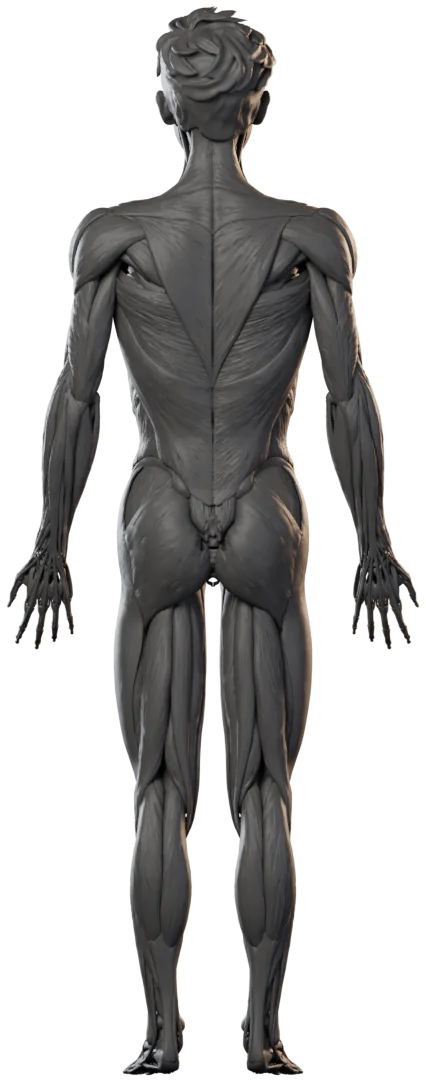
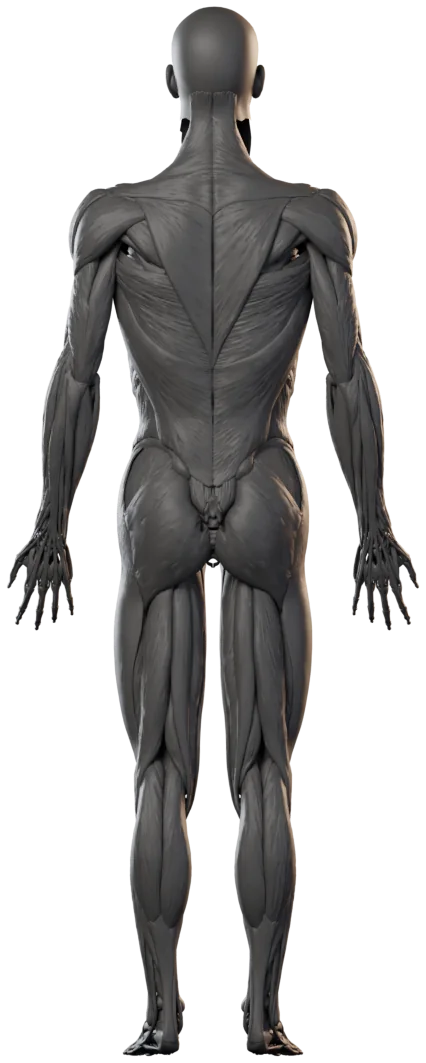
Realistic male head on the anatomy figure
Replaces the atlas head with the Lee Perry-Smith head scan (Infinite Realities,
CC BY 3.0), trimmed to a neck column that meets the trapezius; ungrouped deep
neck muscles hidden. Re-rendered beauty and ID maps; credit added in Settings.

Claude-Session: https://claude.ai/code/session_018p5ShPLkAdsKbAirBRCepd

diff --git a/styles.css b/styles.css
@@ -382,7 +382,7 @@ select.txt { background-image: linear-gradient(45deg, transparent 50%, var(--mu)
 .body-map { display: grid; grid-template-columns: 1fr 1fr; gap: 8px; }
 .body-map figure { margin: 0; display: flex; flex-direction: column; align-items: center; }
 .body-map figcaption { font-size: 11px; font-weight: 700; letter-spacing: .08em; text-transform: uppercase; color: var(--mu2); margin-top: 4px; }
-.body-cv { width: 100%; max-width: 190px; aspect-ratio: 426 / 1082; height: auto; display: block; cursor: pointer; }
+.body-cv { width: 100%; max-width: 190px; aspect-ratio: 426 / 1063; height: auto; display: block; cursor: pointer; }
 .body-map { background: radial-gradient(60% 45% at 50% 40%, rgba(255, 138, 61, .06), transparent 70%); border-radius: 14px; padding-top: 6px; }
 .body-legend { display: flex; align-items: center; gap: 8px; margin: 12px 4px 0; font-size: 11.5px; color: var(--mu); font-weight: 600; }
 .body-legend i { flex: 1; height: 6px; border-radius: 6px; background: linear-gradient(90deg, #3a3633, #a8471c, var(--accent2)); }

diff --git a/app.js b/app.js
@@ -1098,7 +1098,7 @@ function viewSettings() {
     <button class="btn block ghost danger" data-a="reset">Erase everything</button>
   </section>
   <p class="fine center">Kiln v1 · Back up monthly. iOS can clear web app data if storage gets tight.</p>
-  <p class="fine center">Anatomy model: <a href="https://www.z-anatomy.com" target="_blank" rel="noopener">Z-Anatomy</a>, CC BY-SA 4.0</p>
+  <p class="fine center">Anatomy model: <a href="https://www.z-anatomy.com" target="_blank" rel="noopener">Z-Anatomy</a>, CC BY-SA 4.0 · Head scan: Lee Perry-Smith by <a href="https://ir-ltd.net" target="_blank" rel="noopener">Infinite Realities</a>, CC BY 3.0</p>
   <input type="file" id="file-in" accept=".csv,.json,text/csv,application/json" hidden>
   `;
 }

diff --git a/sw.js b/sw.js
@@ -1,5 +1,5 @@
 // Stale-while-revalidate app shell: opens instantly offline, picks up new versions on next launch.
-const CACHE = 'kiln-v9';
+const CACHE = 'kiln-v10';
 const ASSETS = ['./', 'index.html', 'styles.css', 'exercises.js', 'body.js', 'app.js', 'manifest.webmanifest',
   'img/body-front.webp', 'img/body-back.webp', 'img/body-front-id.png', 'img/body-back-id.png',
   'icons/icon-192.png', 'icons/icon-512.png', 'icons/apple-touch-icon.png'];

diff --git a/tools/blender/render.py b/tools/blender/render.py
@@ -1,4 +1,6 @@
 import bpy, sys, math, mathutils, json, os
+def smoothstep_(x, a, b):
+    t = max(0.0, min(1.0, (x - a) / (b - a))); return t * t * (3 - 2 * t)
 sys.path.insert(0, os.path.dirname(__file__))
 from groups import group_of, GROUPS
 args = json.loads(sys.argv[-1])
@@ -41,11 +43,12 @@ if HEAD_Z:
     core.location = (0, c.y + args.get('core_dy', 0.0), c.z + 0.02)
     core.scale = ((hi.x - lo.x) / 2 * args.get("core_s", 0.86), (hi.y - lo.y) / 2 * args.get("core_sy", 0.8), (hi.z - lo.z) / 2 * args.get("core_s", 0.86))
     keep.append(core)
+    HAIR = []; SKIN_HEAD = []
     # sculpted head: skin regions of the face and skull from the body-surface model
     before = set(bpy.context.scene.objects)
     bpy.ops.import_scene.fbx(filepath=args['skin'])
     NO = ['carotid', 'muscular triangle', 'supraclavicular', 'eyelash', 'cilia', 'cross section', 'eyebrow hair', 'hairs of eyebrow', 'pubic', 'axilla']
-    if not args.get('hair'): NO.append('hair')
+    if not (args.get('hair') or args.get('buzz')): NO.append('hair')
     if not args.get('neck'): NO += ['neck', 'sternocleidomastoid']
     zmin_keep = args.get('skin_zmin', 1.475)
     for o in [o for o in bpy.context.scene.objects if o not in before]:
@@ -55,11 +58,13 @@ if HEAD_Z:
         if n.endswith('.j') or n.endswith('.i') or any(x in n for x in NO) or (min(w.z for w in ws) < zmin_keep and not is_neck):
             o.hide_render = True; continue
         keep.append(o)
+        SKIN_HEAD.append(o)
+        if n.startswith('hairs of head'): HAIR.append(o)
         if n.startswith('orbital region'):
             # sculpted eyeball behind each eye opening
             cx = sum(w.x for w in ws) / 8; fy = min(w.y for w in ws); r = 0.0125
             bpy.ops.mesh.primitive_uv_sphere_add(segments=48, ring_count=32, radius=r, location=(cx * 0.93, fy + r * args.get('eye_back', 2.2), args.get('eye_z', 1.5915)))
-            bpy.ops.object.shade_smooth(); keep.append(bpy.context.active_object)
+            bpy.ops.object.shade_smooth(); keep.append(bpy.context.active_object); SKIN_HEAD.append(bpy.context.active_object)
 print('KEEP', len(keep), 'of', len(meshes))
 # clay material
 mat = bpy.data.materials.new('clay'); mat.use_nodes = True
@@ -67,12 +72,198 @@ b = mat.node_tree.nodes['Principled BSDF']
 b.inputs['Base Color'].default_value = tuple(args.get('clay', [0.11, 0.105, 0.10])) + (1,)
 b.inputs['Roughness'].default_value = 0.55
 if 'Specular IOR Level' in b.inputs: b.inputs['Specular IOR Level'].default_value = 0.35
+if args.get('scanhead') and args.get('head_z'):
+    # realistic male head scan (Lee Perry-Smith, Infinite Realities, CC BY 3.0) replaces the atlas head
+    import bmesh
+    before = set(sc.objects)
+    bpy.ops.import_scene.gltf(filepath=args['scanhead'])
+    scan = [o for o in sc.objects if o not in before and o.type == 'MESH'][0]
+    for o in [o for o in sc.objects if o not in before and o is not scan]: o.hide_render = True
+    bm = bmesh.new(); bm.from_mesh(scan.data); bmesh.ops.transform(bm, matrix=scan.matrix_world, verts=bm.verts)
+    top = max(v.co.z for v in bm.verts)
+    chin = min(v.co.z for v in bm.verts if abs(v.co.x) < 0.4 and v.co.y < -1.0)
+    nose_y = min(v.co.y for v in bm.verts)
+    H = args.get('scan_top', 1.712) - args.get('scan_chin', 1.488)
+    k = H / (top - chin)
+    for v in bm.verts:
+        c = v.co
+        v.co = mathutils.Vector((c.x * k, args.get('scan_nose_y', -0.118) + (c.y - nose_y) * k, args.get('scan_top', 1.712) - (top - c.z) * k))
+    band = [v.co for v in bm.verts if 1.49 < v.co.z < 1.51]
+    ncy = sum(c.y for c in band) / max(1, len(band))
+    rx, ry = args.get('neck_rx', 0.062), args.get('neck_ry', 0.07)
+    def outside_neck(c):
+        if c.z >= 1.535: return False
+        if c.y > ncy + args.get('neck_back_dy', 0.012) and c.z < args.get('neck_back_z', 1.525): return True   # let the traps show at the back
+        if c.z > args.get('jaw_keep_z', 1.478) and abs(c.x) < rx * 1.25: return False   # keep the jaw and under-chin
+        return ((c.x / rx) ** 2 + ((c.y - ncy) / ry) ** 2) > 1
+    bmesh.ops.delete(bm, geom=[v for v in bm.verts if v.co.z < args.get('scan_cut', 1.40) or outside_neck(v.co)], context='VERTS')
+    for f in bm.faces: f.smooth = True
+    head = bpy.data.objects.new('scan_head', bpy.data.meshes.new('scan_head')); sc.collection.objects.link(head)
+    bm.to_mesh(head.data); bm.free()
+    scan.hide_render = True
+    for o in SKIN_HEAD: o.hide_render = True
+    core.hide_render = True
+    keep = [o for o in keep if o not in SKIN_HEAD and o is not core]
+    # atlas pieces that sit up inside/behind the scanned head would poke through it
+    hz = args.get('scan_hide_z', 1.50)
+    for o in list(keep):
+        ws = [o.matrix_world @ mathutils.Vector(c) for c in o.bound_box]
+        cz = sum(w.z for w in ws) / 8; cx = sum(w.x for w in ws) / 8
+        ungrouped_neck = o.name in MUSCLE_NAMES and group_of(o.name) is None and cz > 1.40 and abs(cx) < 0.09
+        if cz > hz or ungrouped_neck: o.hide_render = True; keep.remove(o)
+    keep.append(head)
+    print('SCANHEAD scale', round(k, 4), 'chin', round(chin, 3), 'top', round(top, 3))
+if args.get('mannequin') and args.get('head_z'):
+    # blank mannequin head: smooth shell shrink-wrapped to the skull/jaw, features smoothed away
+    import bmesh
+    EAR = ['auric', 'helix', 'lobule', 'tragus', 'concha', 'scapha', 'fossa', 'incisure', 'eminentia', 'crus', 'hair', 'eyebrow']
+    src = [o for o in SKIN_HEAD if o.type == 'MESH' and not any(k in o.name.lower() for k in EAR) and not o.name.lower().startswith('sphere')]
+    bm = bmesh.new()
+    for o in src:
+        t = bmesh.new(); t.from_mesh(o.data); bmesh.ops.transform(t, matrix=o.matrix_world, verts=t.verts)
+        tmp = bpy.data.meshes.new('tmp'); t.to_mesh(tmp); t.free(); bm.from_mesh(tmp); bpy.data.meshes.remove(tmp)
+    tgt = bpy.data.objects.new('head_target', bpy.data.meshes.new('head_target')); sc.collection.objects.link(tgt)
+    bm.to_mesh(tgt.data); bm.free(); tgt.hide_render = True
+    ws = [v.co for v in tgt.data.vertices]
+    hlo = mathutils.Vector((min(w.x for w in ws), min(w.y for w in ws), min(w.z for w in ws)))
+    hhi = mathutils.Vector((max(w.x for w in ws), max(w.y for w in ws), max(w.z for w in ws)))
+    hc = (hlo + hhi) / 2
+    from mathutils.bvhtree import BVHTree
+    tree = BVHTree.FromObject(tgt, bpy.context.evaluated_depsgraph_get())
+    # radial projection of a dense sphere onto the outermost skin; rays that slip through eye
+    # openings are filled from their neighbours, then the face is smoothed blank
+    rings, segs = args.get('mq_rings', 140), args.get('mq_segs', 180)
+    bm = bmesh.new()
+    bmesh.ops.create_uvsphere(bm, u_segments=segs, v_segments=rings, radius=1.0)
+    hc2 = mathutils.Vector((0, hc.y + 0.008, hc.z + 0.01))
+    miss = set(); radii = []
+    for v in bm.verts:
+        d = v.co.normalized()
+        hit = tree.ray_cast(hc2 + d * 0.4, -d, 0.4)[0]
+        if hit is None or (hit - hc2).length < 0.05: miss.add(v); v.co = hc2 + d * 0.09
+        else: v.co = hit; radii.append((hit - hc2).length)
+    bmesh.ops.delete(bm, geom=[v for v in bm.verts if v.co.z < args.get('mq_cut', 1.49)], context='VERTS')
+    miss = {v for v in miss if v.is_valid}
+    cy0 = hc.y
+    def wface(co):
+        f = smoothstep_(co.y, cy0 - 0.03, cy0 - 0.08) * (1 - smoothstep_(co.z, 1.645, 1.675)) * smoothstep_(co.z, 1.485, 1.505)
+        return 0.05 + 0.8 * f
+    nbr = {v: [e.other_vert(v) for e in v.link_edges] for v in bm.verts}
+    wts = {v: (1.0 if v in miss else wface(v.co)) for v in bm.verts}
+    for it in range(args.get('mq_iter', 120)):
+        new = {}
+        for v, ns in nbr.items():
+            if not ns or v.is_boundary: continue
+            avg = sum((n.co for n in ns), mathutils.Vector()) / len(ns)
+            new[v] = v.co.lerp(avg, wts[v])
+        for v, c in new.items(): v.co = c
+    head = bpy.data.objects.new('mannequin_head', bpy.data.meshes.new('mannequin_head')); sc.collection.objects.link(head)
+    bm.to_mesh(head.data); bm.free()
+    for p in head.data.polygons: p.use_smooth = True
+    bpy.context.view_layer.objects.active = head; head.select_set(True)
+    for o in SKIN_HEAD: o.hide_render = True
+    core.hide_render = True
+    keep = [o for o in keep if o not in SKIN_HEAD and o is not core]
+    keep.append(head)
+    print('MANNEQUIN from', len(src), 'pieces')
+BUZZ = []
+if args.get('buzz') and args.get('head_z'):
+    scalp_keys = ['frontal region', 'parietal region', 'occipital region', 'temporal region', 'mastoid region', 'auricular region']
+    parts = [o for o in keep if any(o.name.lower().startswith(k) for k in scalp_keys)]
+    import bmesh
+    bm = bmesh.new()
+    for o in parts:   # merge scalp pieces in world space (FBX pieces are positioned via parents)
+        t = bmesh.new(); t.from_mesh(o.data); bmesh.ops.transform(t, matrix=o.matrix_world, verts=t.verts)
+        tmp = bpy.data.meshes.new('tmp'); t.to_mesh(tmp); t.free(); bm.from_mesh(tmp); bpy.data.meshes.remove(tmp)
+    cap = bpy.data.objects.new('buzz_cap', bpy.data.meshes.new('buzz_cap')); sc.collection.objects.link(cap)
+    bm.to_mesh(cap.data); bm.free()
+    # footprint of the original hair, so the buzz cut keeps a natural hairline
+    from mathutils.bvhtree import BVHTree
+    dg = bpy.context.evaluated_depsgraph_get()
+    verts, polys = [], []
+    for h in HAIR:
+        e = h.evaluated_get(dg); me = e.to_mesh(); off = len(verts)
+        verts += [h.matrix_world @ v.co for v in me.vertices]
+        polys += [[off + i for i in p.vertices] for p in me.polygons]
+        e.to_mesh_clear(); h.hide_render = True
+    tree = BVHTree.FromPolygons(verts, polys)
+    bm = bmesh.new(); bm.from_mesh(cap.data)
+    bmesh.ops.remove_doubles(bm, verts=bm.verts, dist=args.get('buzz_merge', 0.0025))
+    bmesh.ops.subdivide_edges(bm, edges=bm.edges, cuts=args.get('buzz_cuts', 2), use_grid_fill=True, smooth=0.6)
+    bm.normal_update()
+    reach = args.get('buzz_reach', 0.06); front_z = args.get('hairline_z', 1.68)
+    cy = sum(v.co.y for v in bm.verts) / max(1, len(bm.verts))
+    hc = mathutils.Vector((0, cy, (lo.z + hi.z) / 2 + 0.03))   # rough head centre
+    def covered(v):
+        if v.co.y < cy - 0.02 and v.co.z < front_z: return False          # forehead stays clear
+        if abs(v.co.x) < 0.012 and v.co.z > front_z - 0.01: return True    # hair parting gaps on the midline
+        out = (v.co - hc).normalized()
+        hit = tree.ray_cast(v.co + out * 0.0005, out, reach)[0]
+        if hit is None: return False
+        return not (v.co.y < cy - 0.02 and v.co.z < front_z)   # keep the forehead clear
+    gone = [v for v in bm.verts if not covered(v)]
+    print('BUZZ verts', len(bm.verts), 'trimmed', len(gone))
+    bmesh.ops.delete(bm, geom=gone, context='VERTS')
+    bm.normal_update()
+    # soften the hairline: relax boundary vertices a few times
+    for _ in range(args.get('buzz_relax', 6)):
+        edge = [v for v in bm.verts if v.is_boundary]
+        new = {v: sum((e.other_vert(v).co for e in v.link_edges if e.is_boundary), mathutils.Vector()) / max(1, sum(1 for e in v.link_edges if e.is_boundary)) for v in edge}
+        for v, c in new.items(): v.co = v.co.lerp(c, 0.5)
+    lift = args.get('buzz_offset', 0.0025)
+    for v in bm.verts: v.co += (v.co - hc).normalized() * lift
+    bm.to_mesh(cap.data); bm.free()
+    for p in cap.data.polygons: p.use_smooth = True
+    keep = [o for o in keep if o not in HAIR]
+    keep.append(cap); BUZZ.append(cap)
+    # skin fully under the hair takes the stubble colour too, so seams in the cap never show skin
+    BUZZ += [o for o in parts if o.name.lower().startswith(('parietal region', 'occipital region'))]
+# masculine sculpt: thicker neck, wider square jaw, stronger chin and brow, lower dome
+def smooth(z, a, b):   # 0 at a, 1 at b (smoothstep); works for a > b too
+    t = max(0.0, min(1.0, (z - a) / (b - a))); return t * t * (3 - 2 * t)
+def bump(z, lo, peak, hi):
+    return smooth(z, lo, peak) if z <= peak else 1 - smooth(z, peak, hi)
+M = args.get('masc')
+def warp(w):
+    x, y, z = w.x, w.y, w.z
+    if z < 1.38: return w
+    neck = bump(z, 1.40, 1.48, 1.56) * M.get('neck', 0.22)
+    jaw = bump(z, 1.465, M.get('jaw_z', 1.515), 1.59) * M.get('jaw', 0.14)
+    sx = 1 + neck + jaw
+    sy = 1 + neck * 0.8
+    ny = y * sy
+    face = smooth(y, -0.02, -0.07)                      # how far toward the face (front is -y)
+    chin = bump(z, 1.47, 1.50, 1.55) * face * M.get('chin', 0.007)
+    brow = bump(z, 1.605, 1.625, 1.645) * face * M.get('brow', 0.005)
+    nose = bump(z, 1.545, 1.575, 1.61) * smooth(abs(x), 0.022, 0.0) * face * M.get('nose', 0.0)
+    cheek = bump(z, 1.54, 1.575, 1.61) * smooth(abs(x), 0.02, 0.05) * face * M.get('cheekbone', 0.0)
+    ny -= chin + brow + nose + cheek
+    nz = z
+    if z > 1.63: nz = 1.63 + (z - 1.63) * M.get('dome', 0.9)
+    if z > 1.60 and y > 0: ny = y * sy * (1 - smooth(z, 1.60, 1.70) * M.get('back', 0.0))   # less bulge at the back of the skull
+    sx *= 1 + smooth(z, 1.58, 1.66) * M.get('skull_w', 0.04)
+    return mathutils.Vector((x * sx, ny, nz))
+if M:
+    head_objs = [o for o in keep if o.type == 'MESH' and max((o.matrix_world @ mathutils.Vector(c)).z for c in o.bound_box) > 1.38]
+    for o in head_objs:
+        mw = o.matrix_world; inv = mw.inverted()
+        me = o.data
+        if me.users > 1: o.data = me = me.copy()
+        for v in me.vertices: v.co = inv @ warp(mw @ v.co)
+    print('MASC warped', len(head_objs))
 MODE = args.get('mode', 'beauty')
 def flat(name, v):
     m = bpy.data.materials.new(name); m.use_nodes = True; nt = m.node_tree
     for nd in list(nt.nodes): nt.nodes.remove(nd)
     e = nt.nodes.new('ShaderNodeEmission'); e.inputs['Color'].default_value = (v, v, v, 1); e.inputs['Strength'].default_value = 1
     out = nt.nodes.new('ShaderNodeOutputMaterial'); nt.links.new(e.outputs[0], out.inputs[0]); return m
+buzz = bpy.data.materials.new('buzz'); buzz.use_nodes = True
+bn = buzz.node_tree.nodes; bb = bn['Principled BSDF']
+bb.inputs['Base Color'].default_value = tuple(args.get('buzz_color', [0.022, 0.02, 0.019])) + (1,)
+bb.inputs['Roughness'].default_value = 0.92
+noise = bn.new('ShaderNodeTexNoise'); noise.inputs['Scale'].default_value = 900; noise.inputs['Detail'].default_value = 2
+bump = bn.new('ShaderNodeBump'); bump.inputs['Strength'].default_value = 0.35
+buzz.node_tree.links.new(noise.outputs['Fac'], bump.inputs['Height']); buzz.node_tree.links.new(bump.outputs['Normal'], bb.inputs['Normal'])
 idmats = {g: flat('id_' + g, (i + 1) * 16 / 255) for i, g in enumerate(GROUPS)}
 idnone = flat('id_none', 0.0)
 counts = {}
@@ -83,7 +274,7 @@ for o in keep:
         counts[g] = counts.get(g, 0) + 1
         o.data.materials.append(idmats[g] if g else idnone)
     else:
-        o.data.materials.append(mat)
+        o.data.materials.append(buzz if o in BUZZ else mat)
     for p in o.data.polygons: p.use_smooth = True
 if MODE == 'id': print('IDCOUNTS', counts)
 # world: black, transparent film

diff --git a/tools/blender/README.md b/tools/blender/README.md
@@ -4,12 +4,15 @@ Source of `img/body-*.webp` (sculpted render) and `img/body-*-id.png` (muscle gr
 
 - Model: [Z-Anatomy](https://github.com/LluisV/Z-Anatomy) (CC BY-SA 4.0): `MuscularSystem100.fbx`,
   `SkeletalSystem100.fbx`, `Regions of human body100.fbx` from `Resources/Models/FBX/` on the `PC-Version` branch.
+- Head: Lee Perry-Smith scan by Infinite Realities (CC BY 3.0), `examples/models/gltf/LeePerrySmith/LeePerrySmith.glb`
+  in the three.js repo. Passed as `scanhead`; it replaces the atlas head and is trimmed to a neck column.
 - Blender: `pip install bpy` (5.2, Python 3.13), run headless.
 - `groups.py` maps anatomical muscle names to Kiln's 14 groups. ID value = (group index + 1) * 16.
 
 ```
 COMMON='"fbx": ".../MuscularSystem100.fbx", "skel": ".../SkeletalSystem100.fbx", "skin": ".../Regions of human body100.fbx",
-  "views": ["front", "back"], "res": [600, 1200], "head_z": 1.535, "core_dy": 0.015, "core_s": 0.84, "core_sy": 0.78, "eye_back": 2.3, "hair": true'
+  "views": ["front", "back"], "res": [600, 1200], "head_z": 1.535, "core_dy": 0.015, "core_s": 0.84, "core_sy": 0.78, "eye_back": 2.6, "scanhead": ".../LeePerrySmith.glb",
+  "neck_rx": 0.066, "neck_ry": 0.074, "masc": {"neck": 0.22, "jaw": 0, "chin": 0, "brow": 0, "dome": 1, "skull_w": 0}'
 python -I render.py "{\"mode\": \"id\", \"out\": \"out\", $COMMON}"            # rename to *-id.png
 python -I render.py "{\"mode\": \"beauty\", \"out\": \"out\", \"samples\": 128, \"light\": 0.28, \"clay\": [0.045,0.044,0.043], $COMMON}"
 ```
